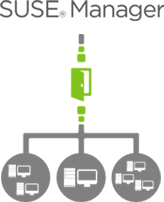
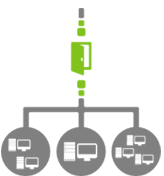
Fixed new brand name text and image in proxy page, fixed cut heading in product page

diff --git a/web/html/src/manager/admin/setup/proxy/proxy.tsx b/web/html/src/manager/admin/setup/proxy/proxy.tsx
@@ -122,6 +122,9 @@ export default (props: Props) => {
           </Form>
         </div>
         <div className="col-sm-3 hidden-xs" id="wizard-faq">
+          <div className="proxy-brand text-center">
+            SUSE<i className="fa fa-registered"></i> Multi-Linux Manager
+          </div>
           <img src={img} alt={t("Illustration of a proxy server")} />
           <h4>{t("HTTP Proxy")}</h4>
           <p>

diff --git a/web/html/src/branding/css/base/components/toolbar.scss b/web/html/src/branding/css/base/components/toolbar.scss
@@ -5,8 +5,7 @@
   padding: 0;
   border: none;
   z-index: 200;
-  padding: 0 $content-area-padding-side;
-  margin: 0 calc(-1 * $content-area-padding-side);
+  margin: 0 auto;
 
   &.is-sticky {
     border-bottom: 1px solid $eos-bc-gray-100;

diff --git a/web/html/src/branding/css/base/theme.scss b/web/html/src/branding/css/base/theme.scss
@@ -1304,3 +1304,11 @@ tr.changed > td {
 #legend-box-wrapper {
   display: none !important;
 }
+
+.proxy-brand {
+  font-size: 1.6em;
+  color: $eos-bc-gray-900;
+  > i {
+    font-size: .4em;
+  }
+}
